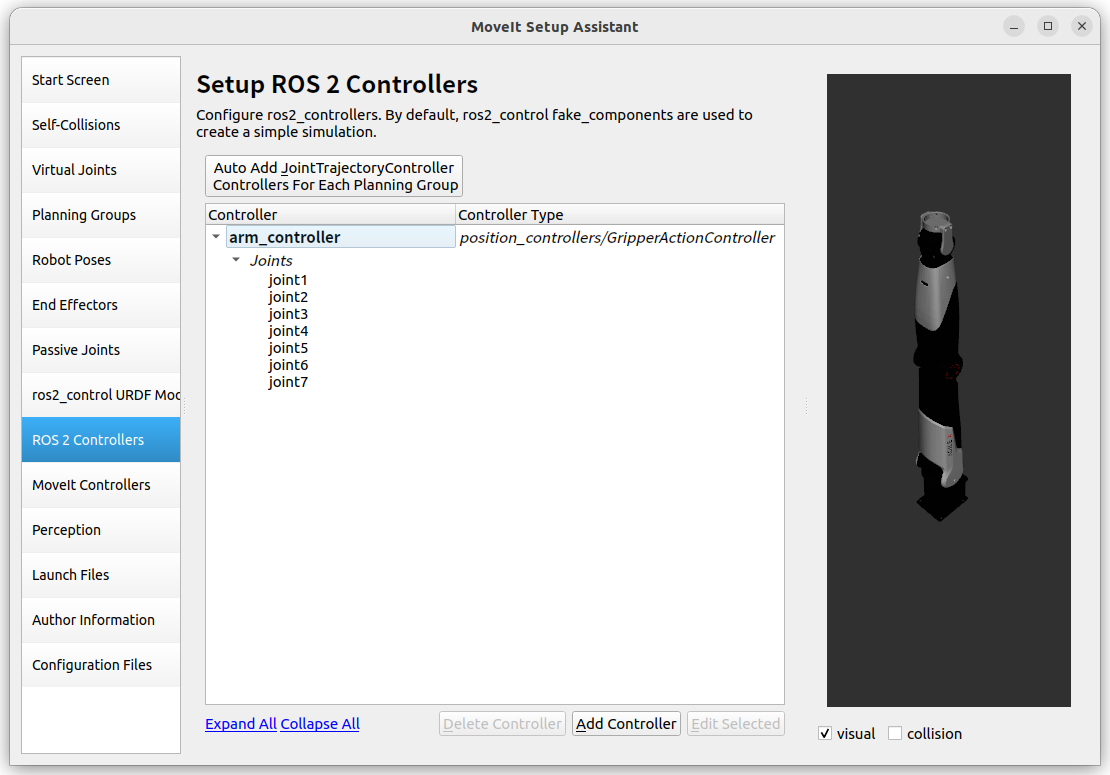
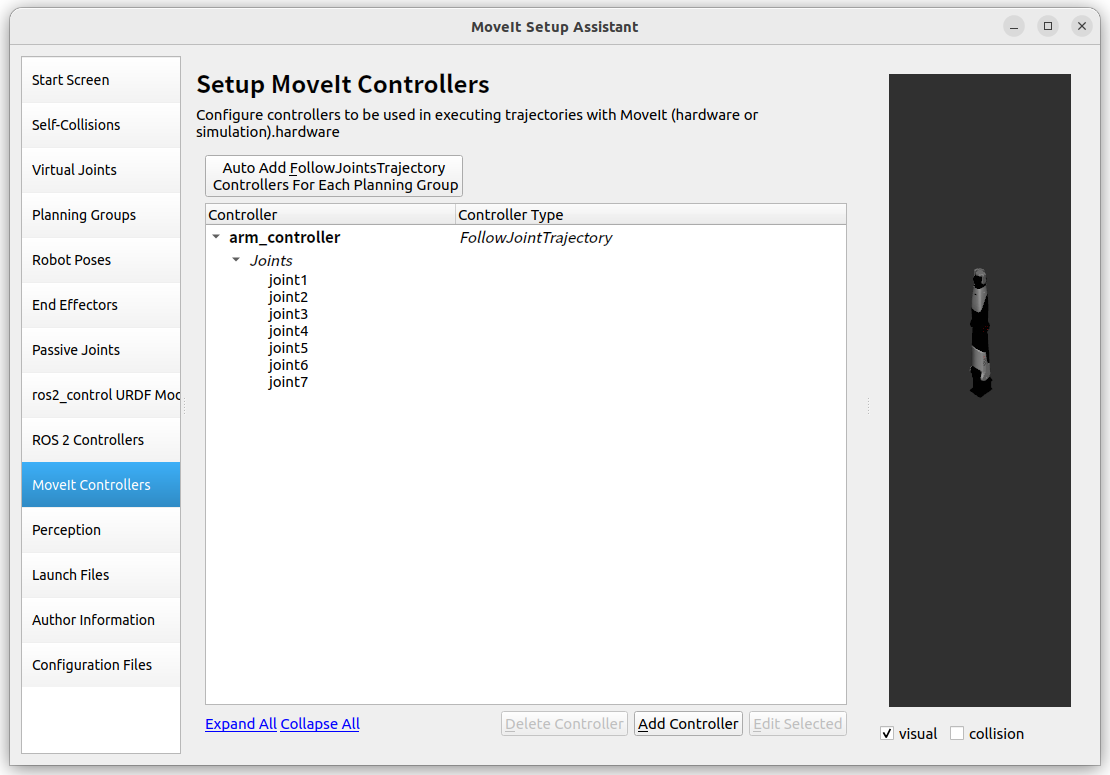
update nero_moveit2 md

diff --git a/piper/nero_moveit2/玩转nero--moveit2篇（一）.md b/piper/nero_moveit2/玩转nero--moveit2篇（一）.md
@@ -11,7 +11,7 @@ ROS2、moveit2、机械臂、nero
 ## 仓库
 
 - **导航仓库**: https://github.com/agilexrobotics/Agilex-College
-- **项目仓库**: https://github.com/agilexrobotics/piper/piper_moveit2.git
+- **项目仓库**: [https://github.com/agilexrobotics/Agilex-College/tree/master/piper/nero_moveit2](https://github.com/agilexrobotics/Agilex-College/tree/master/piper/nero_moveit2)
 
 ## 使用环境
 
@@ -54,72 +54,70 @@ colcon build
 编译通过之后，可以使用以下命令在rviz中查看模型
 
 ```
-cd ~/nero_ws/src
+cd ~/nero_ws/
 source install/setup.bash
 ros2 launch nero_description display_urdf.launch.py 
 ```
 
-![](./img/img_1.png)
+![](img/img_1.png)
 
 ## 使用Setup Assistant导出Moveit包
 
 启动moveit_setup_assistant
 
 ```
-roslaunch moveit_setup_assistant setup_assistant.launch
+ros2 launch moveit_setup_assistant setup_assistant.launch.py
 ```
 
-![](./img/img_2.png)
+![](img/img_2.png)
 
 选择Create New Moveit Configuration Package；创建一个新的Moveit功能包；然后加载机械臂
 
-![](./img/img_3.png)
+![](img/img_3.png)
 
 计算碰撞模型；因为自由一条臂，使用默认参数即可
 
-![](./img/img_4.png)
+![](img/img_4.png)
 
 跳过选择虚拟关节；来到定义规划组；我们这里需要创建两个规划组，机械臂规划组和夹爪规划组；这里先创建机械臂规划组；Group Name设为arm，运动学求解器使用KDL，OMPL Planning 选择RRTstar
 
-![](./img/img_5.png)
+![](img/img_5.png)
 
 设置Kin.Chain
 
-![](./img/img_6.png)
+![](img/img_6.png)
 
 添加规划组的控制关节，选择joint1~joint7，点击>，然后保存
 
-![](./img/img_7.png)
+![](img/img_7.png)
 
 规划组创建完成
 
-![`](./img/img_10.png)
+![`](img/img_10.png)
 
 设置Robot Pose；在这里可以预先设置好规划组的一些动作；
 
+![](img/img_12.png)
 
+跳过End Effectors和Passive Joints；在URDF中添加interfaces，增加了关节的电机属性等物理属性
 
-![](./img/img_12.png)
-
-跳过End Effectors和Passive Joints；在URDF中添加interfaces
-
-![](./img/img2_1.png)
+![](img/img2_1.png)
 
 设置控制器，这里使用的是position_controllers
 
-![](./img/img_15.png)
+![](img/img_14.png)
 
-Simulation 会生成和gazebo中使用的URDF文件，里面添加了关节的电机属性等物理属性
+添加Moveit Controllers
 
-![](./img/img_16.png)
+![](img/img_15.png)
 
 配置完之后，填上自己的名称以及邮箱
 
-![](./img/img_17.png)
+![](img/img_17.png)
 
 设置功能包名称；然后点击Generate Package输出功能包
 
-![](./img/img_18.png)
+![](img/img_18.png)
 
 ## 启动moveit功能包
 
@@ -129,6 +127,6 @@ source install/setup.bash
 ros2 launch nero_moveit2_config demo.launch.py
 ```
 
-![](./img/img_19.png)
+![](img/img_19.png)
 
 成功启动之后，就可以拖动悬浮球，预设机械臂的位置，点击Plan & Execute控制机械臂运动了

diff --git a/piper/nero_moveit2/玩转nero--moveit2篇（二）.md b/piper/nero_moveit2/玩转nero--moveit2篇（二）.md
@@ -11,7 +11,7 @@ ROS2、moveit2、机械臂、nero
 ## 仓库
 
 - **导航仓库**: https://github.com/agilexrobotics/Agilex-College
-- **项目仓库**: https://github.com/agilexrobotics/piper/piper_moveit2.git
+- **项目仓库**: https://github.com/agilexrobotics/Agilex-College/tree/master/piper/nero_moveit2
 
 ## 使用环境
 
